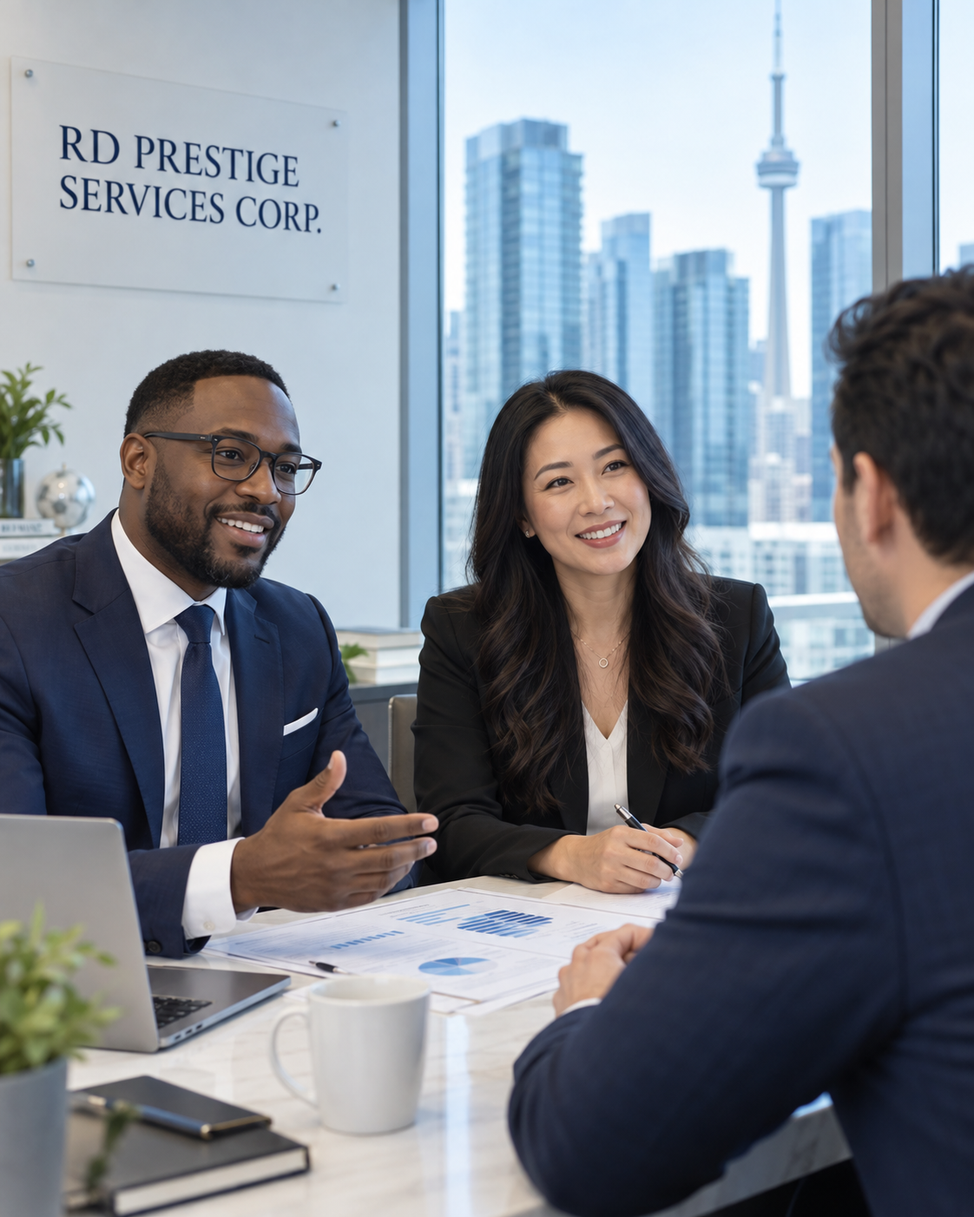
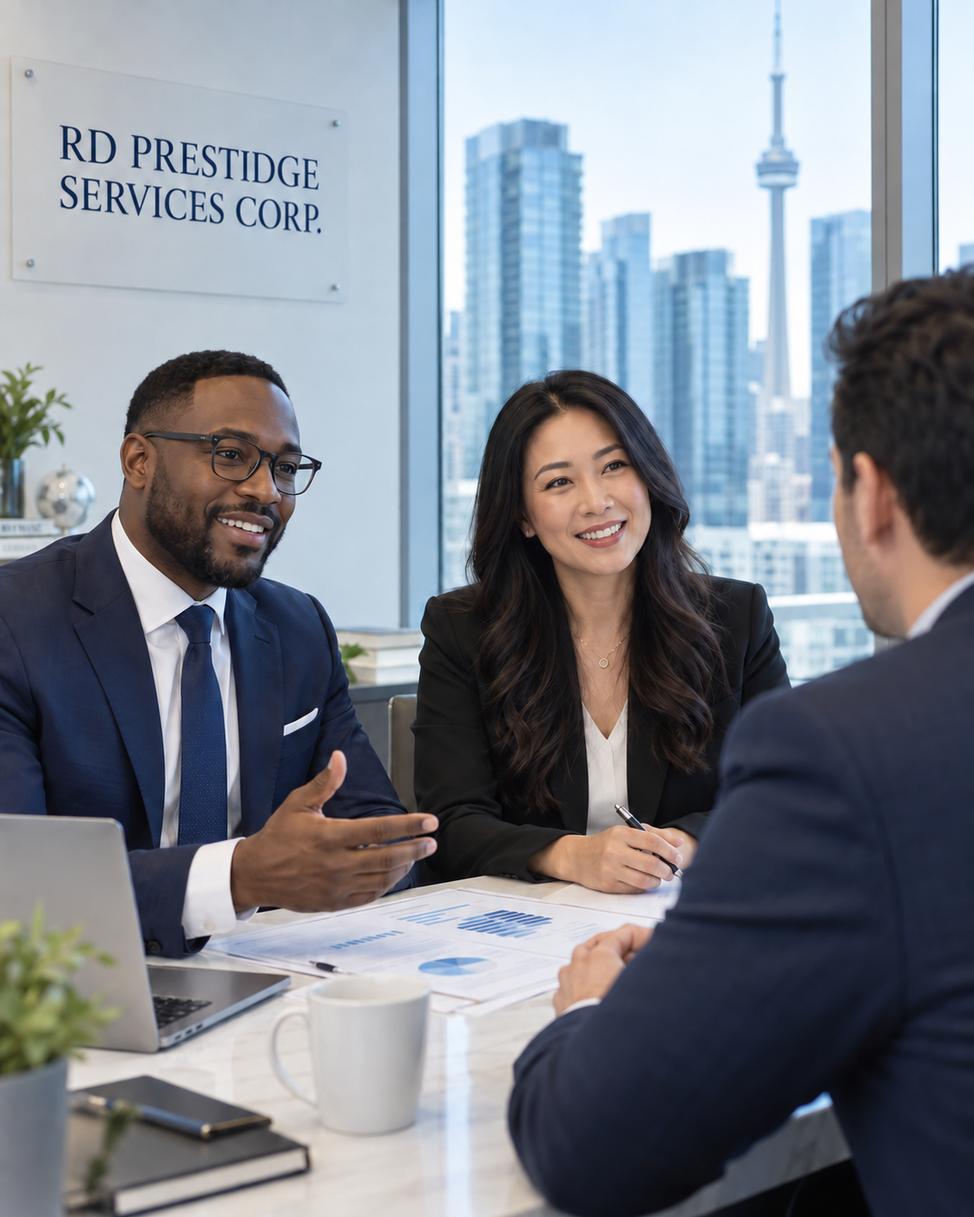
spelling

Changed region(s): [[0.0936, 0.092, 0.3431, 0.1534], [0.9358, 0.0, 0.967, 0.184]]

diff --git a/components/home/financial-future.tsx b/components/home/financial-future.tsx
@@ -27,7 +27,7 @@ export default function FinancialFuture() {
         <div className="min-w-0">
           <p className={`flex items-center gap-y-4.75 gap-x-4.75 mt-0 mr-0 mb-10.75 ml-0 text-ink text-caption tracking-[.14em] uppercase max-[1200px]:gap-y-3 max-[1200px]:gap-x-3 max-[1200px]:tracking-[.14em] max-[1200px]:mb-7.5 max-[540px]:gap-y-2.25 max-[540px]:gap-x-2.25 max-[540px]:tracking-[.14em] max-[540px]:mb-6.25 components-home-financial-future-eyebrow [&::before]:[flex-shrink:0] [&::before]:[width:58px] [&::before]:[height:2px] [&::before]:[margin-right:8px] [&::before]:[background:var(--indigo-800)] [&::before]:[content:""] [@media(max-width:_1200px)]:[&::before]:[width:40px] [@media(max-width:_540px)]:[&::before]:[width:27px] [@media(max-width:_540px)]:[&::before]:[margin-right:3px]`}>Partner <span>·</span> Plan <span>·</span> Progress</p>
           <h2 id="financial-future-heading" className="mt-0 mr-0 mb-0 ml-0 font-heading text-section [&_em]:text-heading-accent [&_em]:font-bold">Let’s Build a Stronger<br className="max-[540px]:hidden" /> Financial Future <em>Together.</em></h2>
-          <p className="max-w-210 mt-6.75 mr-0 mb-8.75 ml-0 text-copy text-body tracking-[-.015em] [&_strong]:font-medium max-[540px]:mt-5.75 max-[540px]:mr-0 max-[540px]:mb-6.75 max-[540px]:ml-0"><strong>RD Prestige Services Corp.</strong> provides tailored financial and professional solutions for businesses and individuals, regardless of size, stage of growth, or budget.</p>
+          <p className="max-w-210 mt-6.75 mr-0 mb-8.75 ml-0 text-copy text-body tracking-[-.015em] [&_strong]:font-medium max-[540px]:mt-5.75 max-[540px]:mr-0 max-[540px]:mb-6.75 max-[540px]:ml-0"><strong>RD Prestidge Services Corp.</strong> provides tailored financial and professional solutions for businesses and individuals, regardless of size, stage of growth, or budget.</p>
           <div className="flex flex-wrap gap-y-4.5 gap-x-6.5 [&_svg]:shrink-0 [&_a:hover]:[transform:translateY(-2px)] [&_a:hover]:shadow-[0_12px_28px_#1B22602b] [&_a:focus-visible]:[outline:3px_solid_var(--cyan-700)] [&_a:focus-visible]:outline-offset-[5px] max-[1200px]:gap-y-3.75 max-[1200px]:gap-x-3.75 max-[540px]:flex-col max-[540px]:gap-y-3 max-[540px]:gap-x-3 motion-reduce:[&_a]:[transition:none]">
             <Link href="/consultation" className="button-primary inline-flex items-center justify-center gap-y-6 gap-x-6 min-h-17.5 pt-4 pr-7 pb-4 pl-7 [border:1px_solid] rounded-[8px] font-heading text-body font-bold no-underline shadow-[0_10px_25px_#1B226018] [transition:transform_180ms_ease,_box-shadow_180ms_ease] border-[var(--indigo-800)] text-white max-[1200px]:pt-3.75 max-[1200px]:pr-5 max-[1200px]:pb-3.75 max-[1200px]:pl-5 max-[1200px]:min-h-15 max-[1200px]:gap-y-4 max-[1200px]:gap-x-4 max-[540px]:min-h-14.5 components-home-financial-future-primaryButton [background-image:linear-gradient(var(--cyan-600),_var(--indigo-800))]">Book a consultation <ArrowRight size={28} aria-hidden="true" /></Link>
             <Link href="#contact" className="button-secondary inline-flex items-center justify-center gap-y-6 gap-x-6 min-h-17.5 pt-4 pr-7 pb-4 pl-7 [border:1px_solid] rounded-[8px] font-heading text-body font-bold no-underline shadow-[0_10px_25px_#1B226018] [transition:transform_180ms_ease,_box-shadow_180ms_ease] min-w-70 border-[var(--line)] bg-[#FFFFFFc9] text-ink max-[1200px]:pt-3.75 max-[1200px]:pr-5 max-[1200px]:pb-3.75 max-[1200px]:pl-5 max-[1200px]:min-h-15 max-[1200px]:gap-y-4 max-[1200px]:gap-x-4 max-[1200px]:min-w-0 max-[540px]:min-h-14.5">Contact RDPSC <ArrowRight size={28} aria-hidden="true" /></Link>
@@ -39,7 +39,7 @@ export default function FinancialFuture() {
           </ul>
         </div>
         <div className="relative min-w-0 mt-16.5 text-center max-[900px]:max-w-132.5 max-[900px]:w-full max-[900px]:mt-0 max-[900px]:mr-auto max-[900px]:mb-0 max-[900px]:ml-auto">
-          <Image src="/logo/rdcsp_logo.png" alt="RD Prestige Services Corp. — Your one stop accounting services shop" width={2000} height={1302} sizes="(max-width: 900px) 80vw, 34vw" className="block w-[94%] h-auto ml-auto mr-auto max-[900px]:w-[85%]" />
+          <Image src="/logo/rdcsp_logo.png" alt="RD Prestidge Services Corp. — Your one stop accounting services shop" width={2000} height={1302} sizes="(max-width: 900px) 80vw, 34vw" className="block w-[94%] h-auto ml-auto mr-auto max-[900px]:w-[85%]" />
           <p className="mt-5.75 mr-[-14px] mb-0 ml-[-14px] text-ink text-caption font-semibold tracking-[.14em] uppercase max-[1200px]:tracking-[.14em] max-[1200px]:ml-0 max-[1200px]:mr-0 max-[540px]:mt-4.5 max-[540px]:tracking-[.14em]">Accessible. Practical. Scalable. Affordable.</p>
           <div className="flex justify-center gap-y-2.5 gap-x-2.5 mt-5.5 mr-0 mb-5.5 ml-0 [&_span]:w-16.25 [&_span]:h-1.25 [&_span]:rounded-[4px] [&_span]:bg-[var(--indigo-800)] [&_span:nth-child(2)]:bg-[var(--red-600)] max-[540px]:mt-4.25 max-[540px]:mb-4.25 max-[540px]:gap-y-2 max-[540px]:gap-x-2 max-[540px]:[&_span]:w-11 max-[540px]:[&_span]:h-1" aria-hidden="true"><span /><span /><span /></div>
           <p className="mt-0 mr-[-20px] mb-0 ml-[-20px] text-copy font-heading text-body italic max-[1200px]:ml-0 max-[1200px]:mr-0">Your Goals. Our Expertise. A Stronger Tomorrow.</p>

diff --git a/components/footer/footer.tsx b/components/footer/footer.tsx
@@ -25,7 +25,7 @@ export default function Footer() {
           <div className="[&_h2]:mt-0 [&_h2]:mr-0 [&_h2]:mb-0 [&_h2]:ml-0 [&_h2]:font-heading [&_h2]:text-card-heading [&_h2]:font-bold [&_h2]:text-white [&_h2_em]:text-heading-accent max-[1000px]:[grid-column:1_/_-1] max-[1000px]:max-w-155 max-[540px]:[grid-column:auto]">
             <p className={`mt-0 mr-0 mb-3.75 ml-0 text-white text-caption tracking-[.14em] uppercase components-footer-footer-eyebrow [&::after]:[display:block] [&::after]:[width:40px] [&::after]:[height:3px] [&::after]:[margin-top:12px] [&::after]:[background:var(--cyan-600)] [&::after]:[content:""]`}>Your Partner<br />in Progress</p>
             <h2>Building<br />Stronger<br /><em>Tomorrows</em></h2>
-            <p className="mt-5.5 mr-0 mb-6.25 ml-0 text-body">At RD Prestige Services Corp., we do more than provide services. We become a trusted partner in your financial and business success with practical expertise and affordable support.</p>
+            <p className="mt-5.5 mr-0 mb-6.25 ml-0 text-body">At RD Prestidge Services Corp., we do more than provide services. We become a trusted partner in your financial and business success with practical expertise and affordable support.</p>
             <ul className={`grid grid-cols-3 list-none pt-0 pr-0 pb-0 pl-0 mt-0 mr-0 mb-0 ml-0 [&_li]:relative [&_li]:flex [&_li]:flex-col [&_li]:items-center [&_li]:gap-y-2.25 [&_li]:gap-x-2.25 [&_li]:text-center [&_li]:text-body [&_li]:text-white [&_svg]:w-8.25 [&_svg]:h-8.25 [&_svg]:text-heading-accent [&_svg]:[stroke-width:2.5] max-[1000px]:max-w-97.5 components-footer-footer-values [&_li_+_li::before]:[position:absolute] [&_li_+_li::before]:[left:0] [&_li_+_li::before]:[bottom:12px] [&_li_+_li::before]:[height:37px] [&_li_+_li::before]:[width:1px] [&_li_+_li::before]:[background:var(--cyan-600)] [&_li_+_li::before]:[content:""]`}>
               <li><ShieldCheck aria-hidden="true" /><span>Trusted<br />Expertise</span></li>
               <li><UsersRound aria-hidden="true" /><span>Client<br />Focused</span></li>
@@ -52,7 +52,7 @@ export default function Footer() {
 
       <div className="[border-top:1px_solid_var(--cyan-600)] [&_nav_ul]:flex [&_nav_ul]:flex-wrap [&_nav_ul]:gap-y-2.5 [&_nav_ul]:gap-x-0 [&_nav_ul]:list-none [&_nav_ul]:mt-0 [&_nav_ul]:mr-0 [&_nav_ul]:mb-0 [&_nav_ul]:ml-0 [&_nav_ul]:pt-0 [&_nav_ul]:pr-0 [&_nav_ul]:pb-0 [&_nav_ul]:pl-0 [&_nav_li]:pl-4 [&_nav_li]:pr-4 [&_nav_li]:[border-right:1px_solid_var(--line)] [&_nav_li]:text-small [&_nav_li:first-child]:pl-0 [&_nav_li:last-child]:pr-0 [&_nav_li:last-child]:[border:0] max-[540px]:[&_nav_li]:pl-2.5 max-[540px]:[&_nav_li]:pr-2.5 components-footer-footer-bottom [background-image:linear-gradient(135deg,_var(--indigo-900),_var(--indigo-900))]">
         <div className="flex items-center justify-between gap-y-6.25 gap-x-6.25 max-w-450 mt-auto mr-auto mb-auto ml-auto pt-7.25 pr-[clamp(28px,_4.2vw,_76px)] pb-9.5 pl-[clamp(28px,_4.2vw,_76px)] [&_>_p]:mt-0 [&_>_p]:mr-0 [&_>_p]:mb-0 [&_>_p]:ml-0 [&_>_p]:text-body max-[1400px]:flex-wrap max-[1000px]:pt-6.5 max-[1000px]:pr-7.5 max-[1000px]:pb-6.5 max-[1000px]:pl-7.5 max-[540px]:pt-6.25 max-[540px]:pr-5.5 max-[540px]:pb-6.25 max-[540px]:pl-5.5 max-[540px]:gap-y-5.25 max-[540px]:gap-x-5.25 components-footer-footer-bottomInner [&_.components-footer-footer-motto]:[display:flex] [&_.components-footer-footer-motto]:[align-items:center] [&_.components-footer-footer-motto]:[gap:20px] [&_.components-footer-footer-motto]:[padding-left:32px] [&_.components-footer-footer-motto]:[border-left:1px_solid_var(--cyan-600)] [&_.components-footer-footer-motto]:font-heading [&_.components-footer-footer-motto]:[white-space:nowrap] [@media(max-width:_1400px)]:[&_.components-footer-footer-motto]:[padding-left:0] [@media(max-width:_1400px)]:[&_.components-footer-footer-motto]:[border:0] [@media(max-width:_540px)]:[&_.components-footer-footer-motto]:[gap:15px]">
-          <p>© {new Date().getFullYear()} RD Prestige Services Corp. All rights reserved.</p>
+          <p>© {new Date().getFullYear()} RD Prestidge Services Corp. All rights reserved.</p>
           <nav aria-label="Legal and site information"><ul>{policies.map(([label, href]) => <li key={label}><Link href={href}>{label}</Link></li>)}</ul></nav>
         </div>
       </div>

diff --git a/components/home/about-departments.tsx b/components/home/about-departments.tsx
@@ -34,7 +34,7 @@ export default function AboutDepartments() {
           <div className="pt-3.5 pr-0 pb-6 pl-0 min-w-0 max-[800px]:pt-0 max-[800px]:pr-0 max-[800px]:pb-0 max-[800px]:pl-0">
             <p className={`flex items-center gap-y-5 gap-x-5 mt-0 mr-0 mb-6 ml-0 text-brand text-caption font-bold tracking-[.14em] uppercase max-[480px]:mb-4.25 components-home-about-departments-eyebrow [&::after]:[width:58px] [&::after]:[height:2px] [&::after]:[background:var(--cyan-600)] [&::after]:[content:""]`}>About RDPSC</p>
             <h2 id="about-heading" className="mt-0 mr-0 mb-0 ml-0 text-heading text-section [&_span]:text-brand">Financial Expertise<br /><span>Built Around Your Business</span></h2>
-            <p className="mt-4.5 mr-0 mb-6.5 ml-0 text-brand text-body">RD Prestige Services Corp. provides customized fractional financial services for businesses, nonprofits, and growing enterprises — with practical, affordable support tailored to your unique needs.</p>
+            <p className="mt-4.5 mr-0 mb-6.5 ml-0 text-brand text-body">RD Prestidge Services Corp. provides customized fractional financial services for businesses, nonprofits, and growing enterprises — with practical, affordable support tailored to your unique needs.</p>
             <div className="grid grid-cols-2 gap-y-4 gap-x-4 max-[480px]:gap-y-3 max-[480px]:gap-x-3">
               {highlights.map(({ icon: Icon, title, subtitle }, index) => (
                 <Reveal delay={index * 0.06} className="typography-surface flex items-start gap-y-4.5 gap-x-4.5 pt-5.5 pr-4.75 pb-5.5 pl-4.75 bg-[var(--white)] rounded-[12px] shadow-[0_7px_28px_#2098C80b] [&_>_svg]:shrink-0 [&_>_svg]:text-brand [&_>_svg]:w-[clamp(32px,_3.8vw,_50px)] [&_>_svg]:mt-0.25 [&_h3]:mt-0 [&_h3]:mr-0 [&_h3]:mb-1.25 [&_h3]:ml-0 [&_h3]:text-card-ink [&_h3]:text-card-heading [&_h3]:font-semibold [&_p]:mt-0 [&_p]:mr-0 [&_p]:mb-0 [&_p]:ml-0 [&_p]:text-copy [&_p]:text-body max-[1150px]:pt-4.5 max-[1150px]:pr-3.75 max-[1150px]:pb-4.5 max-[1150px]:pl-3.75 max-[1150px]:gap-y-3.25 max-[1150px]:gap-x-3.25 max-[1000px]:flex-col max-[1000px]:gap-y-2 max-[1000px]:gap-x-2 max-[1000px]:[&_>_svg]:h-8.25 max-[800px]:flex-row max-[800px]:pt-5 max-[800px]:pr-4 max-[800px]:pb-5 max-[800px]:pl-4 max-[800px]:[&_>_svg]:w-9.75 max-[800px]:[&_>_svg]:h-10.5 max-[480px]:flex-col max-[480px]:gap-y-2.5 max-[480px]:gap-x-2.5 max-[480px]:pt-4 max-[480px]:pr-4 max-[480px]:pb-4 max-[480px]:pl-4" key={title}>

diff --git a/app/about/page.tsx b/app/about/page.tsx
@@ -1,9 +1,13 @@
 import Image from "next/image";
+
 import CompanyStory from "@/components/about/company-story";
+
 import Link from "next/link";
+
 import { ArrowRight, Building2, ChartNoAxesCombined, Check, Diamond, Eye, Globe2, Handshake, Settings, ShieldCheck, Target, UsersRound } from "lucide-react";
 
 const values = ["Integrity", "Client Focus", "Excellence", "Collaboration", "Continuous Learning", "Community Impact"];
+
 const statistics = [
   { icon: UsersRound, value: "Hundreds", label: "of Returning Clients" },
   { icon: Building2, value: "7", label: "Service Areas" },
@@ -29,7 +33,7 @@ export default function AboutPage() {
           <h1 id="about-title">About <span>Us</span></h1>
           <p className="mt-2.5 mr-0 mb-0 ml-0 text-body">People. Process. Possibilities.</p>
           <span className="block w-13 h-0.75 mt-5.5 mr-0 mb-5.5 ml-0 bg-[var(--red-600)] app-about-page-redLine" aria-hidden="true" />
-          <p className="w-[47%] mt-0 mr-0 mb-0 ml-0 text-body max-[1050px]:w-[51%] max-[760px]:w-[80%] max-[760px]:max-w-125 max-[420px]:w-full">At RD Prestige Services Corp. (RDPSC), we were founded on a simple belief: exceptional financial expertise should not be reserved for organizations with large budgets.</p>
+          <p className="w-[47%] mt-0 mr-0 mb-0 ml-0 text-body max-[1050px]:w-[51%] max-[760px]:w-[80%] max-[760px]:max-w-125 max-[420px]:w-full">At RD Prestidge Services Corp. (RDPSC), we were founded on a simple belief: exceptional financial expertise should not be reserved for organizations with large budgets.</p>
         </div>
         <p className="absolute top-12.5 right-7.5 mt-0 mr-0 mb-0 ml-0 text-ink text-right text-caption font-bold tracking-[.14em] uppercase max-[760px]:hidden app-about-page-heroWords [&_.app-about-page-redLine]:[width:34px] [&_.app-about-page-redLine]:[margin-left:auto]">Trust<br />Expertise<br />Growth<span className="block w-13 h-0.75 mt-5.5 mr-0 mb-5.5 ml-0 bg-[var(--red-600)] app-about-page-redLine" /></p>
       </section>

diff --git a/components/status-page.tsx b/components/status-page.tsx
@@ -8,7 +8,7 @@ export default function StatusPage({ code, title, description, onRetry }: { code
     <main className="flex flex-1 items-center bg-[radial-gradient(ellipse_at_top_right,var(--indigo-50),transparent_55%),linear-gradient(120deg,var(--white),var(--indigo-50))] px-5 py-12 font-body text-ink sm:px-8 sm:py-16">
       <div className="mx-auto grid w-full max-w-6xl items-center gap-10 md:grid-cols-[1.2fr_.8fr]">
         <div className="min-w-0">
-          <p className="text-caption font-semibold uppercase tracking-[.14em] text-eyebrow">RD Prestige Services Corp.</p>
+          <p className="text-caption font-semibold uppercase tracking-[.14em] text-eyebrow">RD Prestidge Services Corp.</p>
           <p className="mt-4 text-[clamp(3.5rem,10vw,7rem)] font-bold leading-none tracking-tight text-brand" aria-hidden="true">{code}</p>
           <h1 className="mt-5 text-title">{title}</h1>
           <span className="my-5 block h-0.75 w-13 bg-[var(--red-600)]" aria-hidden="true" />
@@ -20,7 +20,7 @@ export default function StatusPage({ code, title, description, onRetry }: { code
           </div>
           <p className="mt-6 text-small text-copy">Need help? <a href={company.emailHref} className="text-brand underline underline-offset-4">{company.email}</a></p>
         </div>
-        <div className="typography-surface mx-auto w-full max-w-80 rounded-2xl border border-[var(--line)] bg-white p-6 shadow-sm"><Image src="/logo/rdcsp_logo.png" alt="RD Prestige Services Corp." width={2000} height={1302} sizes="(max-width: 768px) 272px, 320px" className="h-auto w-full" /></div>
+        <div className="typography-surface mx-auto w-full max-w-80 rounded-2xl border border-[var(--line)] bg-white p-6 shadow-sm"><Image src="/logo/rdcsp_logo.png" alt="RD Prestidge Services Corp." width={2000} height={1302} sizes="(max-width: 768px) 272px, 320px" className="h-auto w-full" /></div>
       </div>
     </main>
   );

diff --git a/app/page.tsx b/app/page.tsx
@@ -44,7 +44,7 @@ export default function Home() {
               Accounting, tax, and payroll <span>support that fits your budget</span>
             </h1>
             <p className="max-w-177.5 mt-5 mr-0 mb-7 ml-0 text-copy text-body max-[540px]:mt-4.5 max-[540px]:mb-5.75">
-              RD Prestige Services Corp. gives small and growing businesses access to experienced finance professionals without the cost of a full-time finance department. Get accounting, payroll, and cash flow support tailored to your needs and budget.
+              RD Prestidge Services Corp. gives small and growing businesses access to experienced finance professionals without the cost of a full-time finance department. Get accounting, payroll, and cash flow support tailored to your needs and budget.
             </p>
             <div className="flex flex-wrap gap-y-5 gap-x-7.5 [&_a:focus-visible]:[outline:3px_solid_var(--indigo-800)] [&_a:focus-visible]:outline-offset-[5px] [&_svg]:shrink-0 max-[1250px]:gap-y-3 max-[1250px]:gap-x-3 max-[540px]:flex-col max-[540px]:gap-y-3 max-[540px]:gap-x-3">
               <Link href="/consultation" className="button-primary inline-flex items-center justify-center gap-y-3.75 gap-x-3.75 min-h-15.25 pt-3.5 pr-7 pb-3.5 pl-7 [border:1.5px_solid] rounded-[11px] text-body font-bold no-underline [transition:box-shadow_180ms_ease,_transform_180ms_ease] text-white border-[#ee0710] shadow-[0_6px_16px_#d5081010] hover:[transform:translateY(-2px)] hover:shadow-[0_8px_22px_#153c8c20] max-[1250px]:pt-3.25 max-[1250px]:pr-4.5 max-[1250px]:pb-3.25 max-[1250px]:pl-4.5 max-[1250px]:min-h-13.5 max-[1250px]:gap-y-2.5 max-[1250px]:gap-x-2.5 max-[540px]:w-full motion-reduce:[transition:none] app-page-primaryButton [background-image:linear-gradient(#ff2028,_#df0009)]">Book a consultation <CalendarDays size={24} aria-hidden="true" /></Link>

diff --git a/app/services/page.tsx b/app/services/page.tsx
@@ -29,7 +29,7 @@ export default function ServicesPage() {
             <h1 id="services-title">Our <span>Services</span></h1>
             <p className="text-body mt-2.5 mr-0 mb-0 ml-0">Practical Solutions. Professional Expertise.<br />Affordable Support.</p>
             <span className="block w-12 h-0.75 mt-5 mr-0 mb-5 ml-0 bg-[var(--red-600)] app-services-page-redLine" aria-hidden="true" />
-            <p className="text-body mt-0 mr-0 mb-0 ml-0 max-w-162.5">At RD Prestige Services Corp. (RDPSC), we believe every business and individual deserves access to high-quality financial and professional services, regardless of size, stage of growth, or budget.</p>
+            <p className="text-body mt-0 mr-0 mb-0 ml-0 max-w-162.5">At RD Prestidge Services Corp. (RDPSC), we believe every business and individual deserves access to high-quality financial and professional services, regardless of size, stage of growth, or budget.</p>
             <ul className={`grid grid-cols-3 list-none mt-6.25 mr-0 mb-0 ml-0 pt-0 pr-0 pb-0 pl-0 max-w-145 [&_li]:relative [&_li]:text-center [&_li]:text-body [&_svg]:block [&_svg]:mt-0 [&_svg]:mr-auto [&_svg]:mb-2 [&_svg]:ml-auto [&_svg]:w-9.25 [&_svg]:h-9.25 [&_svg]:text-heading-accent max-[540px]:[&_svg]:w-7.75 max-[540px]:[&_svg]:h-7.75 app-services-page-trust [&_li_+_li::before]:[position:absolute] [&_li_+_li::before]:[left:0] [&_li_+_li::before]:[bottom:8px] [&_li_+_li::before]:[height:45%] [&_li_+_li::before]:[width:1px] [&_li_+_li::before]:[background:var(--cyan-600)] [&_li_+_li::before]:[content:""]`}><li><ShieldCheck aria-hidden="true" />Trusted<br />Expertise</li><li><UsersRound aria-hidden="true" />Client<br />Focused</li><li><ChartNoAxesCombined aria-hidden="true" />Real<br />Results</li></ul>
           </div>
         </div>

diff --git a/components/page-hero.tsx b/components/page-hero.tsx
@@ -12,12 +12,12 @@ export default function PageHero({ title, description }: { title: string; descri
         <nav aria-label="Breadcrumb" className="mb-7 flex flex-wrap items-center gap-3 text-body text-inverse-accent"><Link href="/" className="hover:underline">Home</Link><span aria-hidden="true">/</span><span aria-current="page">{title}</span></nav>
         <div className="grid items-center gap-8 md:grid-cols-[1.3fr_.7fr]">
           <div className="min-w-0">
-            <p className="mb-3 text-caption font-semibold uppercase tracking-[.14em] text-inverse-accent">RD Prestige Services Corp.</p>
+            <p className="mb-3 text-caption font-semibold uppercase tracking-[.14em] text-inverse-accent">RD Prestidge Services Corp.</p>
             <h1 id="page-title" className="text-title">{words.join(" ")} <span className="text-heading-accent">{accent}</span></h1>
             <span aria-hidden="true" className="my-5 block h-0.75 w-13 bg-[var(--red-600)]" />
             <p className="max-w-150 text-body text-inverse-copy">{description}</p>
           </div>
-          <div className="hidden justify-center md:flex"><div className="typography-surface w-full max-w-76 rounded-xl bg-white/95 p-5 shadow-lg"><Image src="/logo/rdcsp_logo.png" alt="RD Prestige Services Corp." width={2000} height={1302} sizes="264px" className="h-auto w-full" /></div></div>
+          <div className="hidden justify-center md:flex"><div className="typography-surface w-full max-w-76 rounded-xl bg-white/95 p-5 shadow-lg"><Image src="/logo/rdcsp_logo.png" alt="RD Prestidge Services Corp." width={2000} height={1302} sizes="264px" className="h-auto w-full" /></div></div>
         </div>
       </div>
     </section>

diff --git a/components/legal/legal-page.tsx b/components/legal/legal-page.tsx
@@ -34,7 +34,7 @@ export default function LegalPage({ policy }: { policy: LegalPolicy }) {
           </nav>
           <div className="grid items-center gap-8 md:grid-cols-[1.3fr_.7fr]">
             <div className="min-w-0">
-              <p className="mb-3 text-caption font-semibold uppercase tracking-[.14em] text-inverse-accent">RD Prestige Services Corp.</p>
+              <p className="mb-3 text-caption font-semibold uppercase tracking-[.14em] text-inverse-accent">RD Prestidge Services Corp.</p>
               <h1 id="policy-title" className="text-title">{titleWords.join(" ")} <span className="text-heading-accent">{accentWord}</span></h1>
               <span aria-hidden="true" className="my-5 block h-0.75 w-13 bg-[var(--red-600)]" />
               <p className="max-w-150 text-body text-inverse-copy">{description}</p>
@@ -42,7 +42,7 @@ export default function LegalPage({ policy }: { policy: LegalPolicy }) {
             </div>
             <div className="hidden justify-center md:flex">
               <div className="typography-surface w-full max-w-76 rounded-xl border border-white/70 bg-white/95 p-5 shadow-[0_12px_32px_#1B226026]">
-                <Image src="/logo/rdcsp_logo.png" alt="RD Prestige Services Corp." width={2000} height={1302} sizes="(min-width: 768px) 264px, 0px" className="h-auto w-full" />
+                <Image src="/logo/rdcsp_logo.png" alt="RD Prestidge Services Corp." width={2000} height={1302} sizes="(min-width: 768px) 264px, 0px" className="h-auto w-full" />
               </div>
             </div>
           </div>

diff --git a/app/contact/page.tsx b/app/contact/page.tsx
@@ -32,7 +32,7 @@ export default function ContactPage() {
             <div className="overflow-hidden [border:1px_solid_var(--line)] rounded-[9px] mt-6.25 bg-white shadow-[0_4px_15px_#29348406] [&_iframe]:block [&_iframe]:w-full [&_iframe]:h-52.5 [&_iframe]:[border:0] max-[800px]:[&_iframe]:h-65 max-[540px]:[&_iframe]:h-55">
               <div className="flex min-h-48 flex-col items-start justify-center gap-3 bg-gradient-to-br from-[var(--indigo-50)] to-[var(--indigo-50)] p-6 text-ink">
                 <MapPin size={32} className="text-brand" aria-hidden="true" />
-                <h3 className="text-card-heading">Find RD Prestige Services Corp.</h3>
+                <h3 className="text-card-heading">Find RD Prestidge Services Corp.</h3>
                 <p className="text-body text-copy">View our company location and get directions on Google Maps.</p>
               </div>
               <a href={company.maps} target="_blank" rel="noopener noreferrer" className="typography-surface flex min-h-12 items-center gap-2 rounded-b-lg bg-[var(--white)] px-4 py-3 text-small font-semibold text-ink hover:bg-[var(--indigo-50)] focus-visible:outline-2 focus-visible:outline-offset-4"><MapPin size={18} aria-hidden="true" /><span>Open company location in Google Maps</span><ArrowUpRight size={17} className="ml-auto shrink-0" aria-hidden="true" /><span className="sr-only"> (opens in a new tab)</span></a>

diff --git a/app/blog/page.tsx b/app/blog/page.tsx
@@ -5,7 +5,7 @@ import { ArrowRight } from "lucide-react";
 import PageHero from "@/components/page-hero";
 import HelpCta from "@/components/help-cta";
 
-export const metadata: Metadata = { title: "Blog & Updates | RD Prestige Services Corp.", description: "Explore RDPSC preparation checklists, planning worksheets, and professional learning resources." };
+export const metadata: Metadata = { title: "Blog & Updates | ", description: "Explore RDPSC preparation checklists, planning worksheets, and professional learning resources." };
 const guides = [
   { title: "Prepare for Your Consultation", category: "Getting Started", image: "/images/about-consultation.png", text: "Share your goals, select a service, and prepare your questions for a conversation with our team.", href: "/consultation", action: "Plan your conversation" },
   { title: "Organize Your Tax Records", category: "Preparation Checklist", image: "/images/services/hero.png", text: "Use our individual tax preparation checklist to organize the information you want to discuss with your tax preparer.", href: "/resources/downloads/individual-tax-checklist.pdf", action: "View checklist" },

diff --git a/app/services/[slug]/page.tsx b/app/services/[slug]/page.tsx
@@ -19,7 +19,7 @@ export function generateStaticParams() {
 
 export async function generateMetadata({ params }: ServicePageProps): Promise<Metadata> {
   const service = getService((await params).slug);
-  const title = `${service.title} | RD Prestige Services Corp.`;
+  const title = `${service.title} | RD Prestidge Services Corp.`;
   return {
     title,
     description: service.summary,
@@ -44,7 +44,7 @@ export default async function ServiceDetailPage({ params }: ServicePageProps) {
               <li aria-current="page" className="text-white">{service.title}</li>
             </ol>
           </nav>
-          <p className="mb-4 text-caption font-semibold uppercase tracking-widest text-heading-accent">RD Prestige Services Corp.</p>
+          <p className="mb-4 text-caption font-semibold uppercase tracking-widest text-heading-accent">RD Prestidge Services Corp.</p>
           <h1 id="service-title" className="max-w-4xl text-title">{service.title}</h1>
           <div className="my-6 h-1 w-12 bg-[var(--red-600)]" aria-hidden="true" />
           <p className="max-w-3xl text-body text-inverse-copy">{service.tagline}</p>
